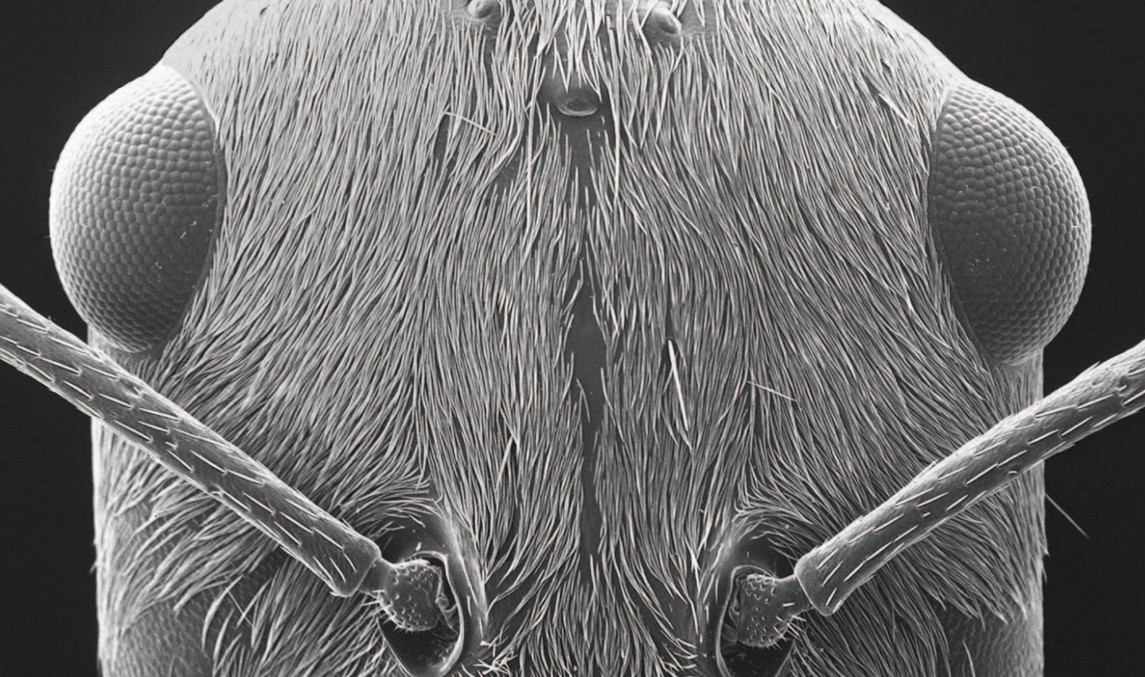
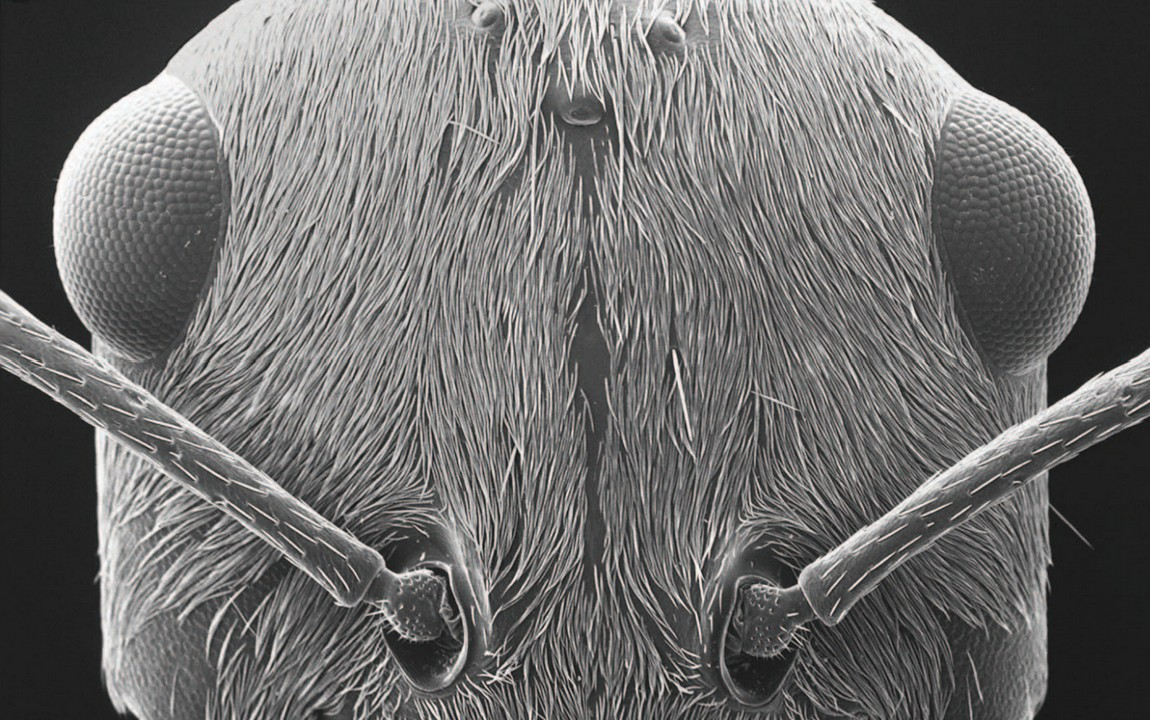
image

diff --git a/_research/research-3.md b/_research/research-3.md
@@ -10,7 +10,7 @@ collection: research
   <img src="/images/Bio_13.jpg" alt="hair" style="width: 30%; height: auto;">
 </div>
 <p style="text-align: center; font-size: 0.9em; color: #888; margin-top: 0.5rem;">
-  Figure 1: Saharan Silver Ant (left) and Hair Structure (right)
+  Figure 1: Saharan Silver Ant (left and middle) and Hair Structure (right)
 </p>
 
 ## Overview
